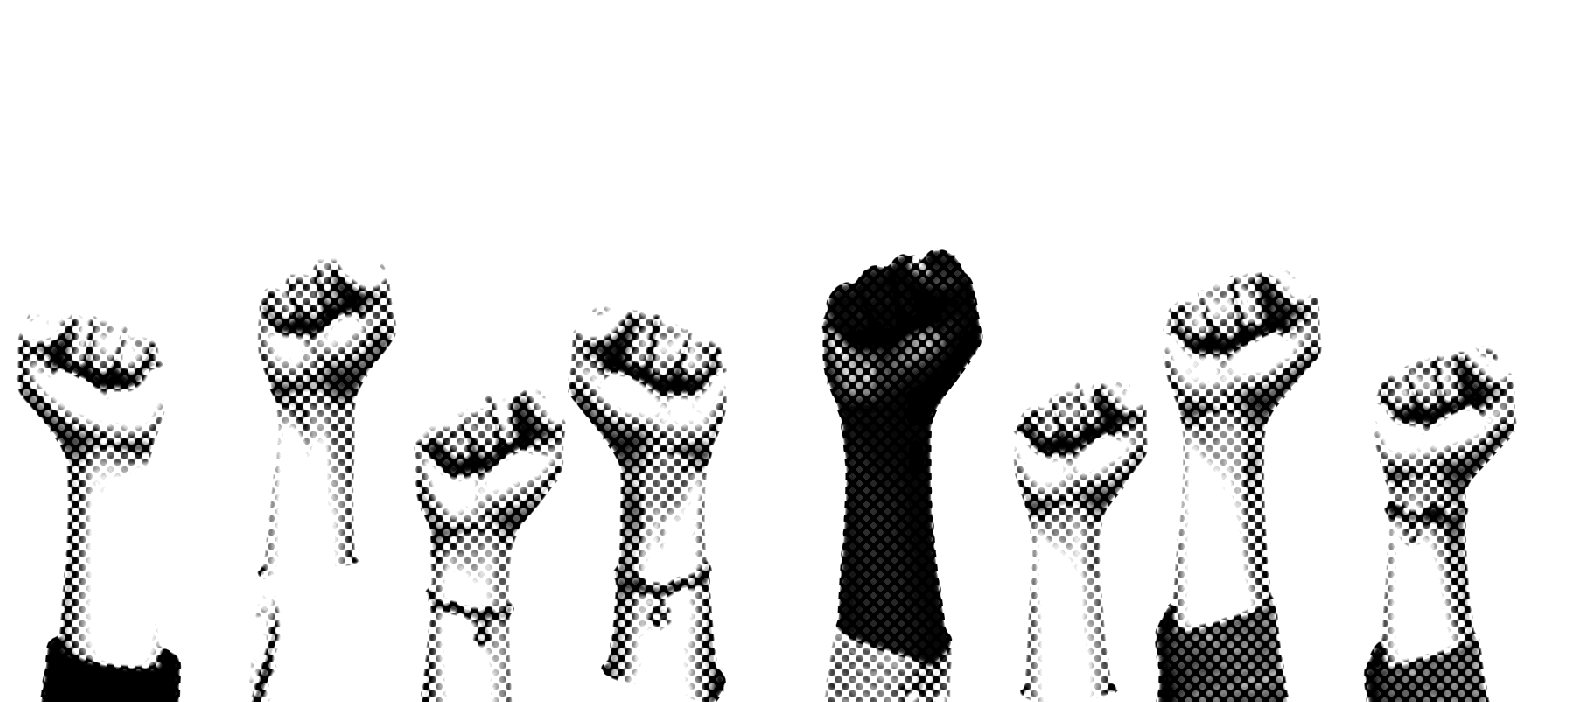
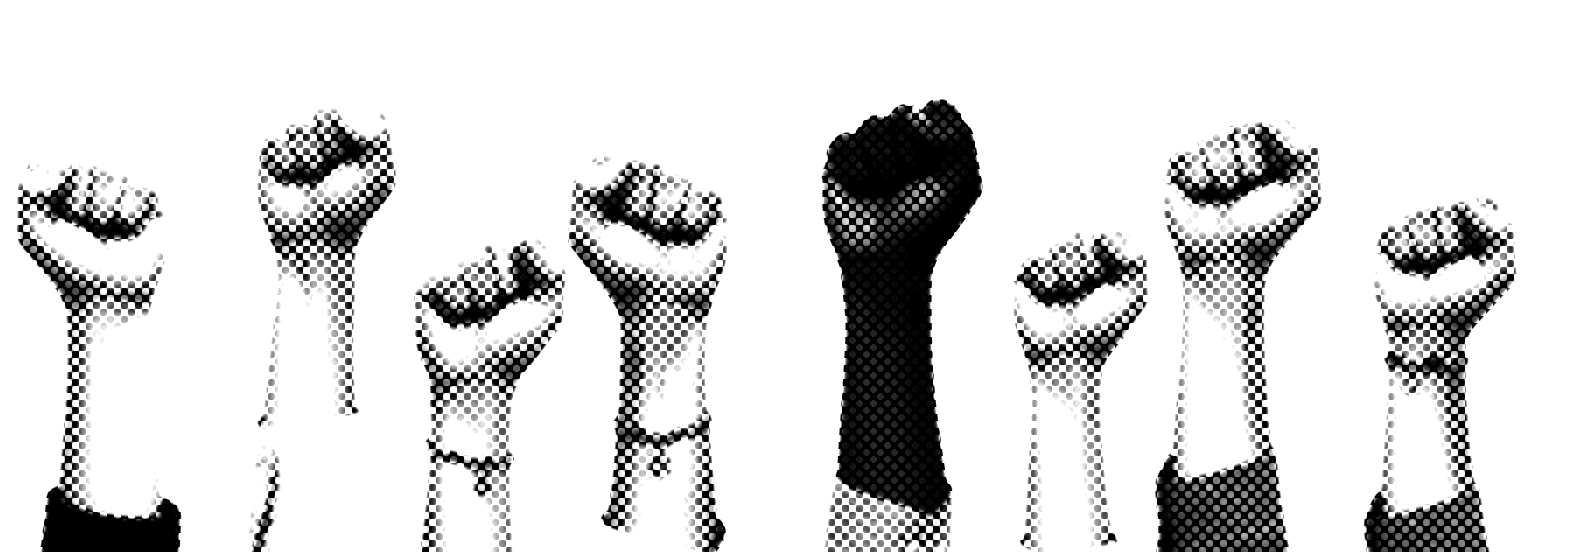
adds parallax fist comp

Changed region(s): [[0.4934, 0.1848, 0.9559, 1.0], [0.1542, 0.1848, 0.4626, 1.0], [0.0, 0.308, 0.1233, 0.9547]]

diff --git a/components/ParallaxFists.vue b/components/ParallaxFists.vue
@@ -1,0 +1,122 @@
+<template>
+  <section 
+    ref="sectionRef" 
+    class="relative overflow-hidden"
+    :class="{ 'is-visible': isVisible }"
+  >
+    <!-- Background Layer (slowest) -->
+    <div 
+      class="absolute inset-0 bg-repeat-x bg-bottom bg-contain march-slow"
+      :style="{ 
+        backgroundImage: 'url(/img/fists-bg.png)',
+        transform: `translateY(${backgroundOffset}%)` 
+      }"
+    />
+
+    <!-- Midground Layer (medium speed) -->
+    <div 
+      class="absolute inset-0 bg-repeat-x bg-left-bottom bg-contain march-medium"
+      :style="{ 
+        backgroundImage: 'url(/img/fists-mg.png)',
+        transform: `translateY(${midgroundOffset}%)` 
+      }"
+    />
+
+    <!-- Foreground Layer (fastest) -->
+    <div 
+      class="absolute inset-0 bg-repeat-x bg-right-bottom bg-contain march-fast"
+      :style="{ 
+        backgroundImage: 'url(/img/fists-fg.png)',
+        transform: `translateY(${foregroundOffset}%)` 
+      }"
+    />
+  </section>
+</template>
+
+<style scoped>
+@keyframes march {
+  0%, 100% {
+    background-position-x: 0;
+    background-position-y: bottom -20px;
+  }
+  50% {
+    background-position-x: 10px;
+    background-position-y: bottom 0px;
+  }
+}
+
+.march-slow,
+.march-medium,
+.march-fast {
+  animation-play-state: paused;
+}
+
+.is-visible .march-slow {
+  animation: march 7s ease-in-out infinite;
+}
+
+.is-visible .march-medium {
+  animation: march 5.5s ease-in-out infinite;
+  animation-delay: -0.5s;
+}
+
+.is-visible .march-fast {
+  animation: march 4s ease-in-out infinite;
+  animation-delay: -1s;
+}
+
+/* Disable animations for users who prefer reduced motion */
+@media (prefers-reduced-motion: reduce) {
+  .march-slow,
+  .march-medium,
+  .march-fast {
+    animation: none !important;
+  }
+}
+</style>
+
+<script setup lang="ts">
+import { useScroll, useElementBounding, useWindowSize, useElementVisibility } from '@vueuse/core'
+
+const sectionRef = ref<HTMLElement | null>(null)
+const { y: scrollY } = useScroll(window, { behavior: 'auto' })
+const { top } = useElementBounding(sectionRef)
+const { height: windowHeight } = useWindowSize()
+const isVisible = useElementVisibility(sectionRef)
+
+// Calculate progress: 0 when entering viewport, 1 when sectionTop reaches 1/4 viewport height
+const scrollProgress = computed(() => {
+  const viewportHeight = windowHeight.value
+  const sectionTop = top.value
+  
+  // Start: sectionTop == viewportHeight (element enters bottom of viewport)
+  // End: sectionTop == viewportHeight * 0.25 (element at 1/4 from top)
+  const start = viewportHeight - 100
+  const end = viewportHeight * 0.15
+  const distance = start - end // How far we need to travel
+  
+  const progress = (start - sectionTop) / distance
+  
+  // Clamp between 0 and 1
+  return Math.max(0, Math.min(1, progress))
+})
+
+// Each layer starts at different times and all end at 0%
+const backgroundOffset = computed(() => {
+  // Starts at progress 0, ends at progress 0.6
+  const layerProgress = Math.max(0, Math.min(1, scrollProgress.value / 0.6))
+  return 100 - (layerProgress * 100)
+})
+
+const midgroundOffset = computed(() => {
+  // Starts at progress 0.2, ends at progress 0.8
+  const layerProgress = Math.max(0, Math.min(1, (scrollProgress.value - 0.2) / 0.6))
+  return 100 - (layerProgress * 100)
+})
+
+const foregroundOffset = computed(() => {
+  // Starts at progress 0.4, ends at progress 1.0
+  const layerProgress = Math.max(0, Math.min(1, (scrollProgress.value - 0.4) / 0.6))
+  return 100 - (layerProgress * 100)
+})
+</script>

diff --git a/nuxt.config.ts b/nuxt.config.ts
@@ -7,7 +7,8 @@ export default defineNuxtConfig({
     '@nuxt/fonts',
     '@nuxt/icon',
     '@nuxt/image',
-    '@nuxtjs/tailwindcss'
+    '@nuxtjs/tailwindcss',
+    '@vueuse/nuxt'
   ],
   image: {
     provider: 'none',
